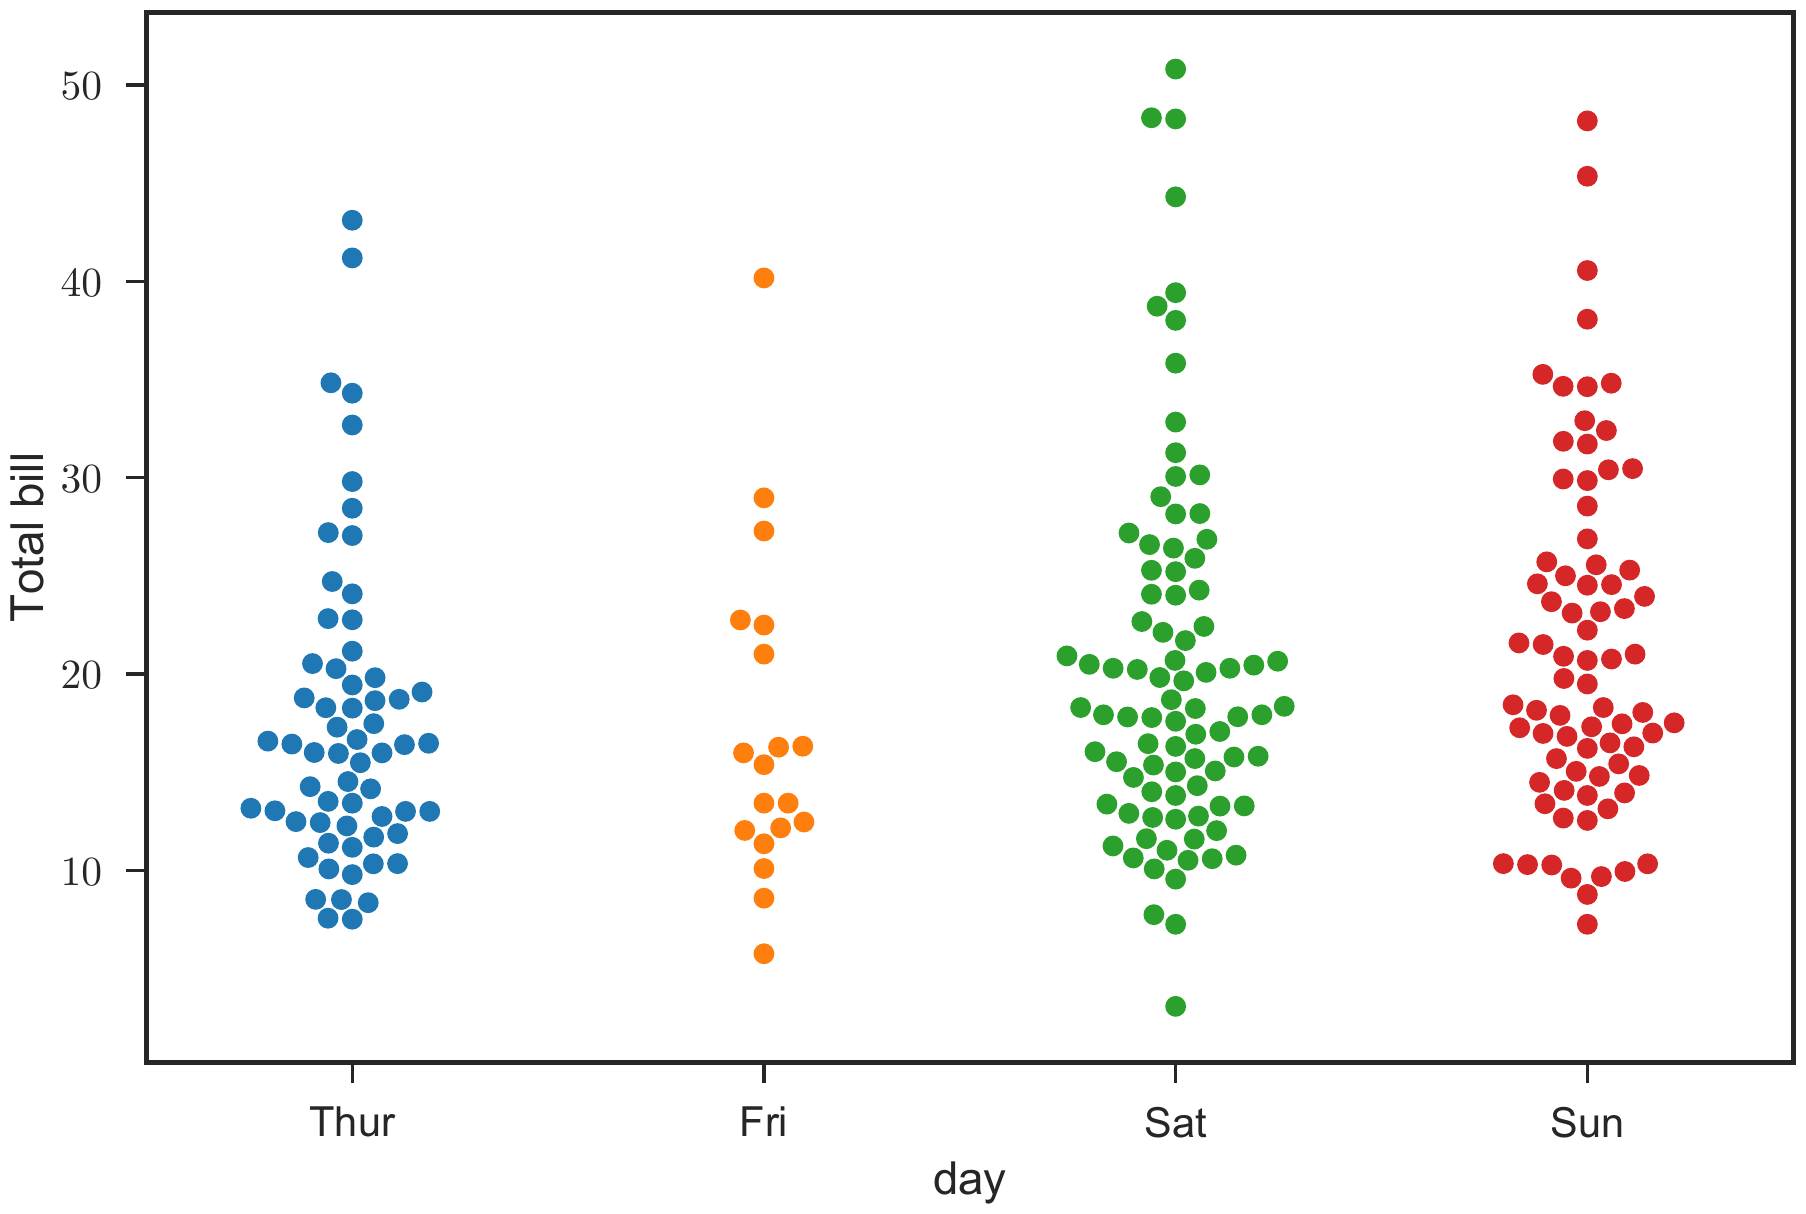
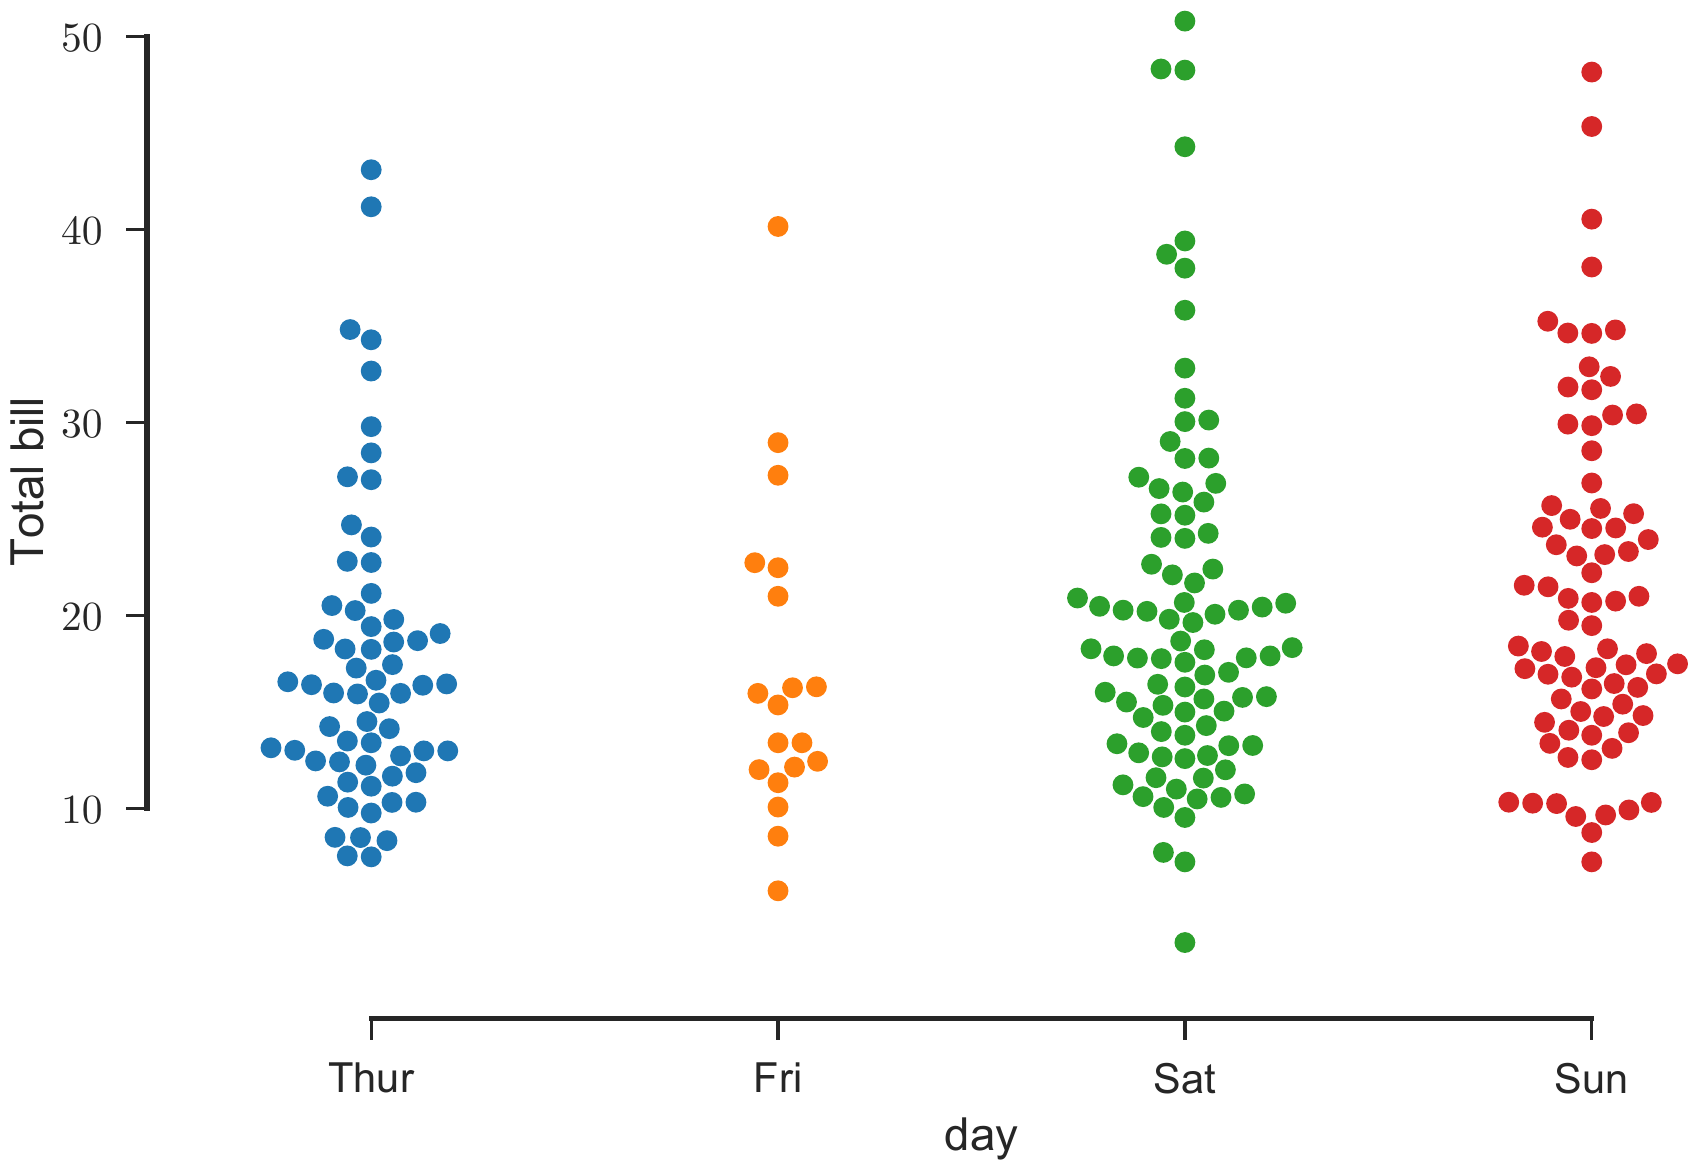
fixed the figure

diff --git a/high-resolution-figures/README.md b/high-resolution-figures/README.md
@@ -1,0 +1,4 @@
+# Generating figures at high-resolution
+
+Please view `Data_analyzer.ipynb` here. 
+
